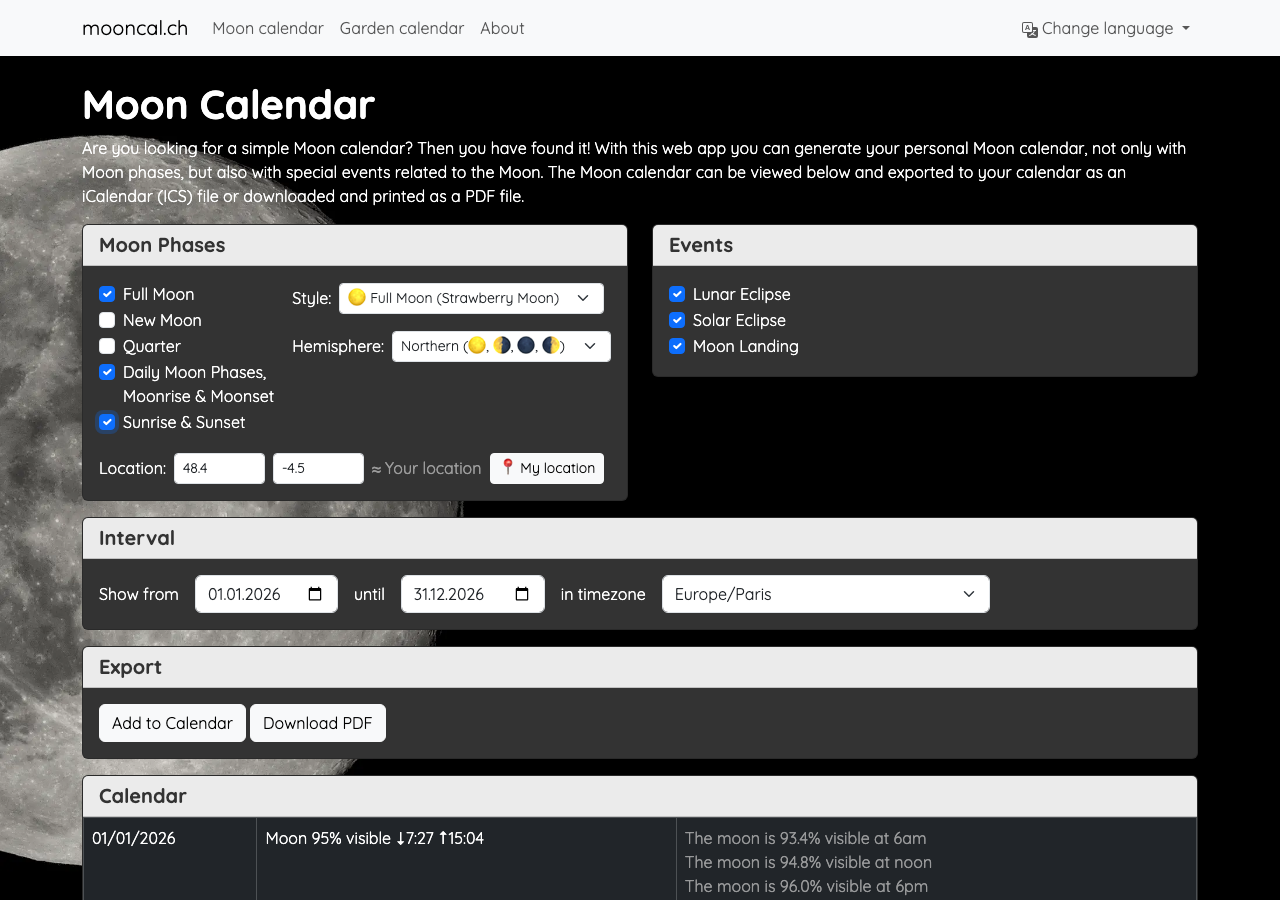
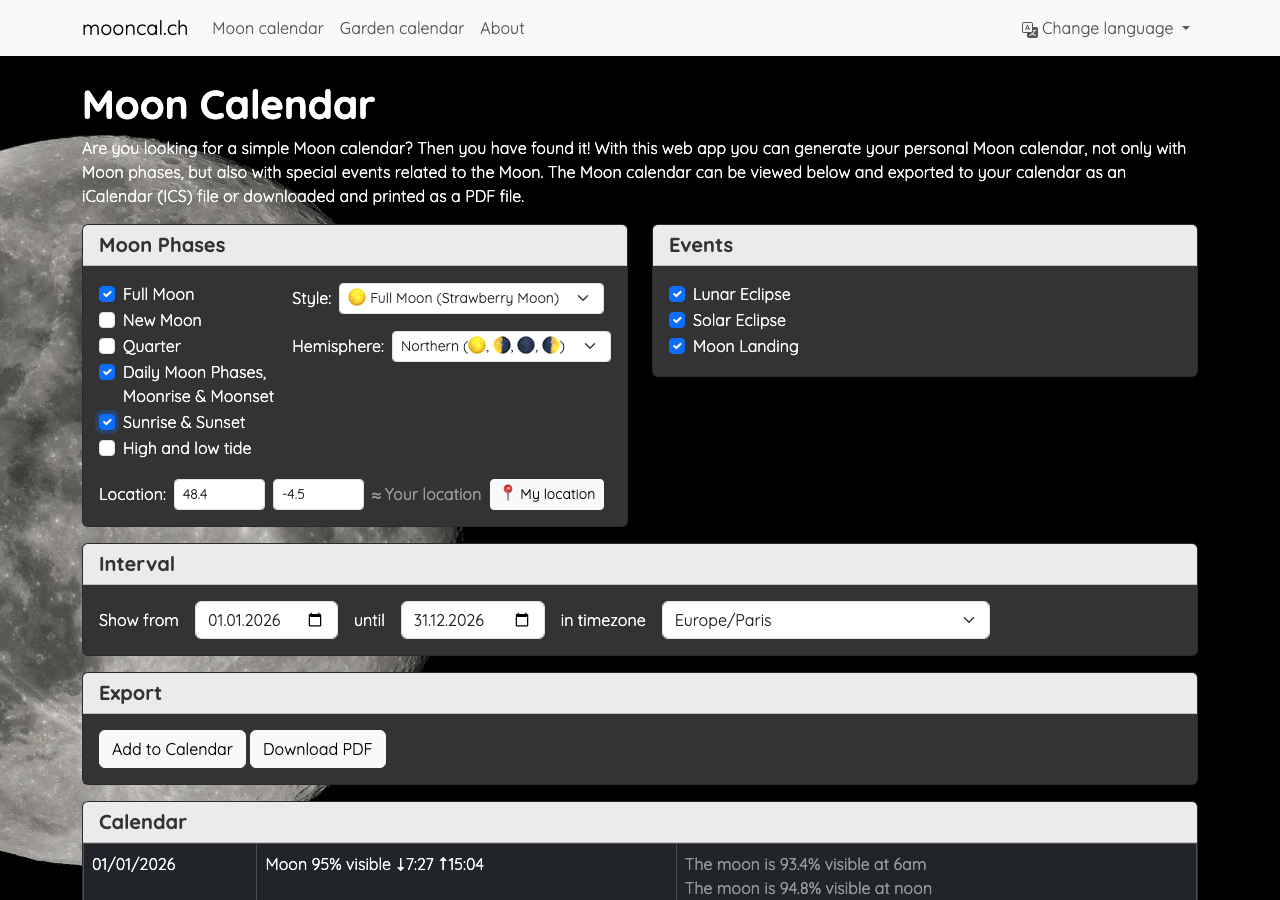
Cover tides in the journey test and the 100-year worst case

Changed region(s): [[0.0625, 0.4667, 0.9375, 0.9956]]

diff --git a/integration-test/mooncal.spec.js b/integration-test/mooncal.spec.js
@@ -166,6 +166,37 @@ test('moon calendar user journey', async ({page}) => {
     await expect(page).toHaveScreenshot('daily-and-sun-with-location.png');
   });
 
+  await test.step('enable tides', async () => {
+    // Brest has a tide station within 50 km
+    const response = nextCalendarResponse(page);
+    await page.locator('#tide-checkbox').click();
+    const url = await response;
+    expect(url).toContain('&phases[tide]=true');
+    expect(url).toContain('&lat=48.4&lon=-4.5');
+    // each day has the moon entry first, then the sun entry, then the tide entry
+    await expect(calendarRows(page).nth(2)).toContainText(/High tide ↑|Low tide ↓/);
+    await expect(page.locator('#tide-station-hint')).toHaveCount(0);
+    await expect(page).toHaveScreenshot('daily-sun-and-tide-with-location.png');
+  });
+
+  await test.step('show the nearest tide stations inland', async () => {
+    const stations = page.waitForResponse(r => new URL(r.url()).pathname === '/tideStations' && new URL(r.url()).searchParams.get('lon') === '8.5');
+    await page.locator('#lat').fill('47.4');
+    await page.locator('#lon').fill('8.5');
+    await page.locator('#lon').blur();
+    expect((await stations).ok()).toBeTruthy();
+    await expect(page.locator('#tide-station-hint .tide-station')).toHaveCount(3);
+    await expect(page.locator('#tide-station-hint')).toContainText('No station with noticeable tides within 50 km');
+    const first = await (await stations).json().then(answer => answer.nearest[0]);
+    const response = nextCalendarResponse(page);
+    await page.locator('#tide-station-hint .tide-station').first().click();
+    expect(await response).toContain('&lat=' + first.lat + '&lon=' + first.lon);
+    await expect(page.locator('#tide-station-hint')).toHaveCount(0);
+    await expect(calendarRows(page).nth(2)).toContainText(/High tide ↑|Low tide ↓/);
+    expect(JSON.stringify(await page.evaluate(() => window.matomoMockCalls))).not.toContain(first.label);
+    expect(await trackedEvents(page)).toContain('Settings/tideStationSelected');
+  });
+
   await test.step('show the error of a too large timeframe', async () => {
     const response = page.waitForResponse(r => new URL(r.url()).pathname === '/mooncal');
     await page.locator('#to').fill('2200-12-31');

diff --git a/test/logics/calculation/TideCalculationLoadTest.java b/test/logics/calculation/TideCalculationLoadTest.java
@@ -1,0 +1,78 @@
+package logics.calculation;
+
+import models.EventInstance;
+import models.MoonPhaseType;
+import models.RequestForm;
+import org.junit.jupiter.api.AfterEach;
+import org.junit.jupiter.api.BeforeEach;
+import org.junit.jupiter.api.Test;
+import play.i18n.Lang;
+import play.test.WithApplication;
+
+import java.time.Duration;
+import java.time.LocalDate;
+import java.time.ZoneId;
+import java.util.Collection;
+import java.util.List;
+import java.util.Map;
+
+import static org.hamcrest.MatcherAssert.assertThat;
+import static org.hamcrest.Matchers.lessThan;
+import static org.junit.jupiter.api.Assertions.assertEquals;
+
+/**
+ * The largest calendar that can be requested with tides: daily phases, sun and tides over 100 years.
+ */
+@SuppressWarnings("JUnitMixedFramework")
+class TideCalculationLoadTest extends WithApplication {
+
+    private static final ZoneId BERLIN = ZoneId.of("Europe/Berlin");
+    private static final LocalDate FROM = LocalDate.of(2000, 1, 1);
+    private static final LocalDate TO = LocalDate.of(2099, 12, 31);
+    private static final int DAYS = 36525;
+    private TotalCalculation calculation;
+
+    @BeforeEach
+    void setUp() {
+        startPlay();
+        calculation = app.injector().instanceOf(TotalCalculation.class);
+    }
+
+    @AfterEach
+    void tearDown() {
+        stopPlay();
+    }
+
+    @Test
+    void dailySunAndTideOver100Years() {
+        long start = System.nanoTime();
+        Collection<EventInstance> events = calculation.calculate(requestForm(Map.of(MoonPhaseType.DAILY, true, MoonPhaseType.SUN, true, MoonPhaseType.TIDE, true)));
+        Duration all = Duration.ofNanos(System.nanoTime() - start);
+
+        start = System.nanoTime();
+        calculation.calculate(requestForm(Map.of(MoonPhaseType.SUN, true)));
+        Duration sunOnly = Duration.ofNanos(System.nanoTime() - start);
+        start = System.nanoTime();
+        calculation.calculate(requestForm(Map.of(MoonPhaseType.TIDE, true)));
+        Duration tideOnly = Duration.ofNanos(System.nanoTime() - start);
+        System.out.println("daily, sun and tide over 100 years: " + all.toMillis() + " ms, sun alone: " + sunOnly.toMillis() + " ms, tide alone: " + tideOnly.toMillis() + " ms");
+
+        assertThat(all, lessThan(Duration.ofSeconds(60)));
+        assertEquals(3 * DAYS, events.size());
+        List<String> attributions = events.stream().filter(event -> event.getEventTypeId().equals(TideCalculation.TIDE_EVENT_TYPE_ID)).map(EventInstance::getAttribution).toList();
+        assertEquals(DAYS, attributions.size());
+        // the same instance, not a copy per event
+        assertEquals(1, attributions.stream().map(System::identityHashCode).distinct().count());
+    }
+
+    private static RequestForm requestForm(Map<MoonPhaseType, Boolean> phases) {
+        RequestForm requestForm = new RequestForm();
+        requestForm.setPhases(phases);
+        requestForm.setFrom(FROM.atStartOfDay(BERLIN));
+        requestForm.setTo(TO.atTime(23, 59, 59).atZone(BERLIN));
+        requestForm.setLang(Lang.forCode("de"));
+        requestForm.setLat(53.9);
+        requestForm.setLon(8.7);
+        return requestForm;
+    }
+}
